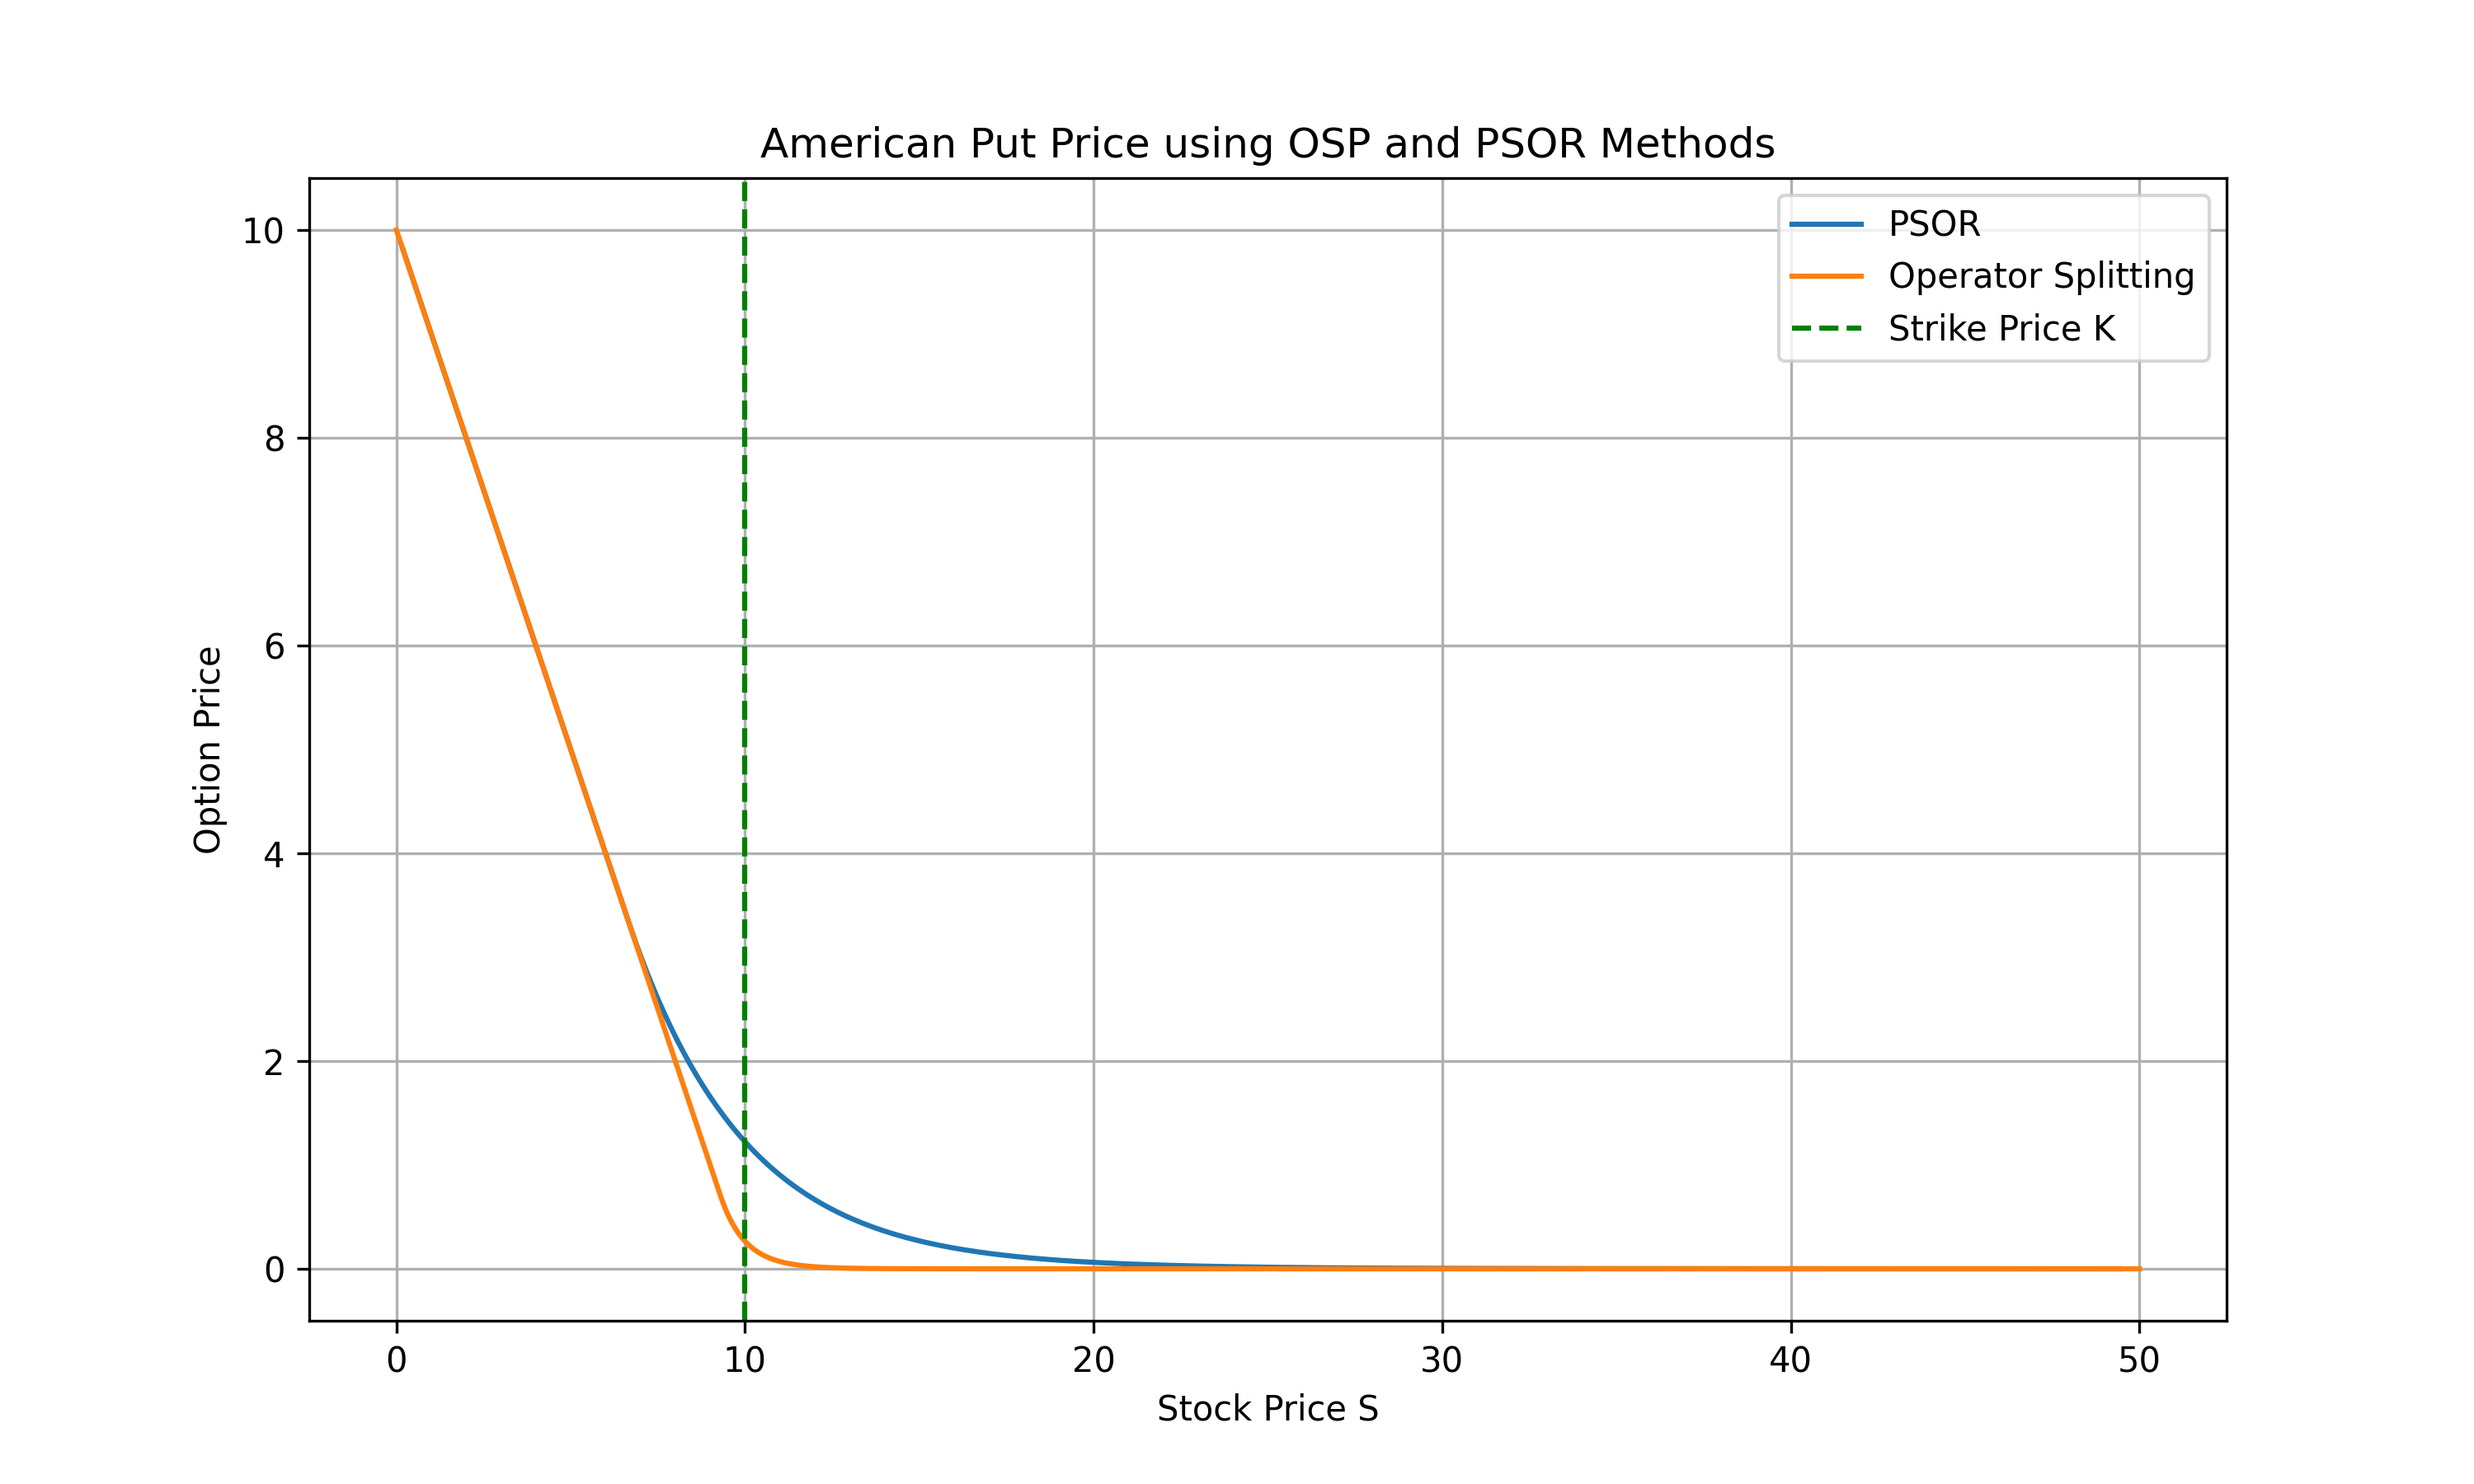
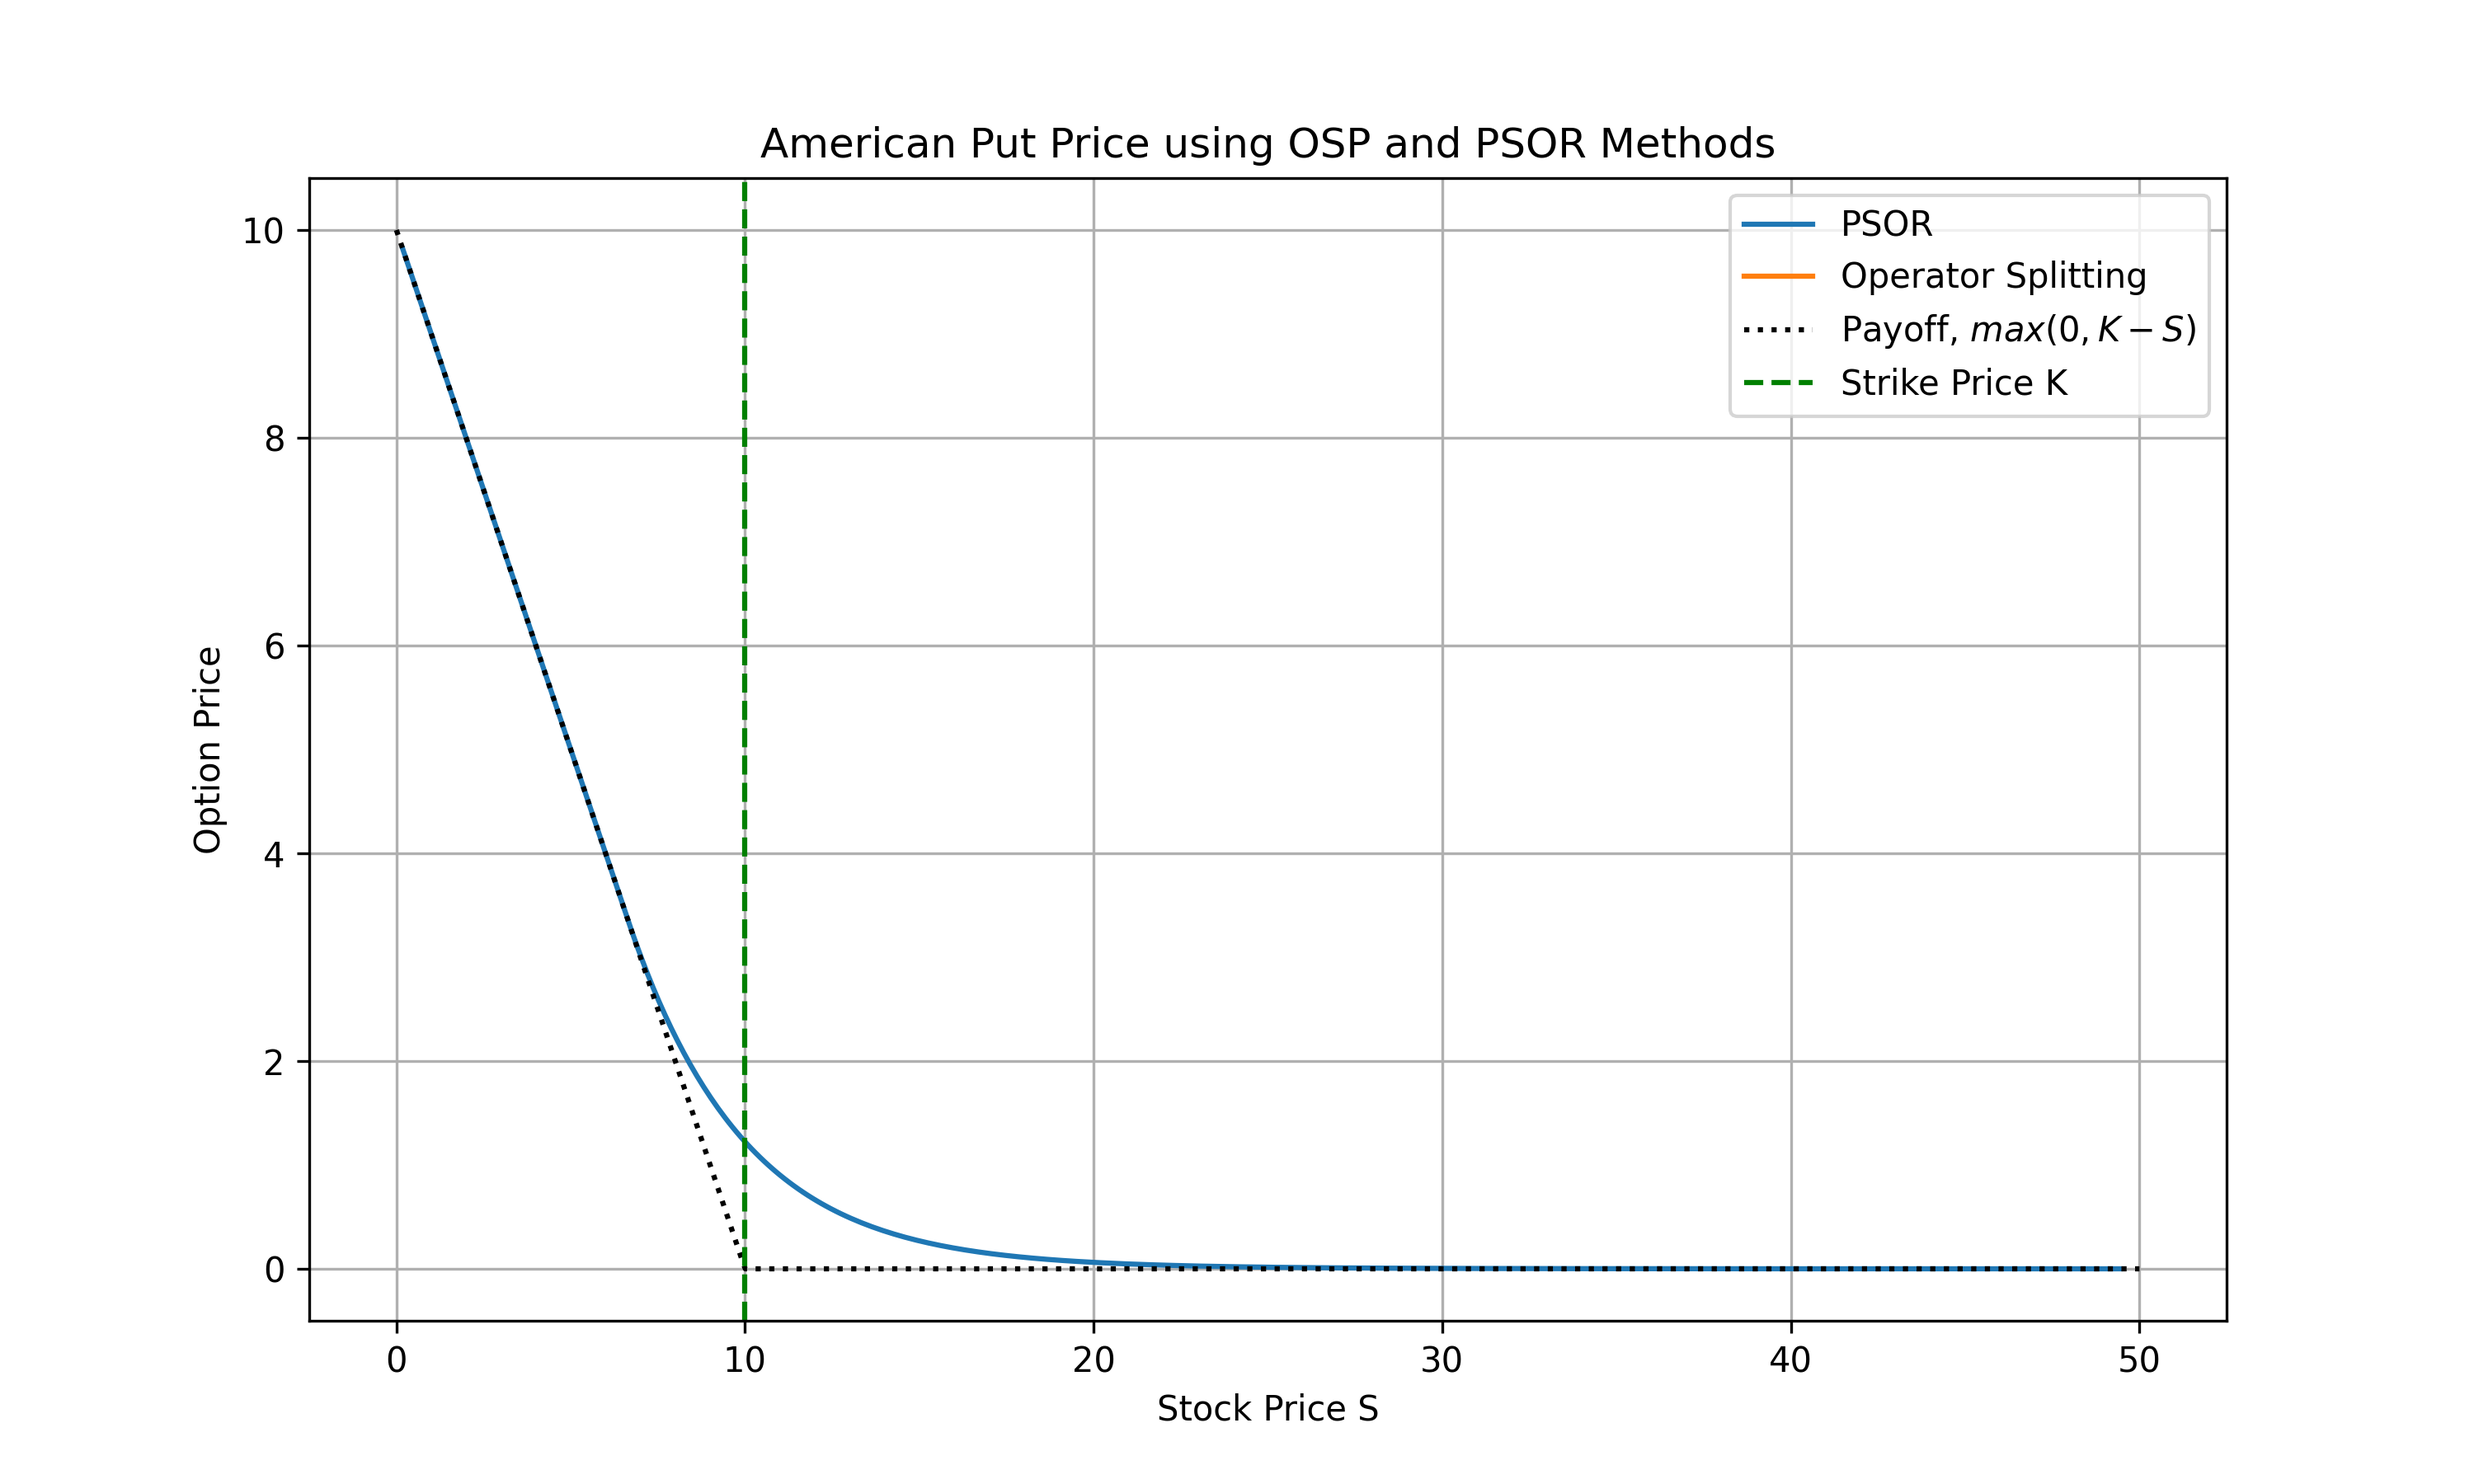
Fixed error with OS, added payoff func to plots, theta scheme to OS aswell

Changed region(s): [[0.682, 0.1244, 0.899, 0.28], [0.31, 0.84, 0.868, 0.8711], [0.279, 0.8089, 0.31, 0.84]]

diff --git a/Solver.py b/Solver.py
@@ -27,7 +27,7 @@ class AmericanOptionSolver:
         self.M = M         # Number of price steps
         self.N = N         # Number of time steps
         self.delta = delta # Dividend yield Only for PSOR method
-
+        self.theta = theta # Theta for Implicit-Explicit scheme
         self.call = call   # Call or put
         self.method = method
 
@@ -35,7 +35,7 @@ class AmericanOptionSolver:
             self.q_delta = 2*(r-delta)/sigma**2
             self.q = 2*r/sigma**2
             self.dtau = sigma**2 * T/N  
-            self.theta = theta # Theta for Implicit-Explicit scheme
+            
 
             # Initialization
             #self.sol_vec = np.zeros(M+1) # Solution vector
@@ -199,44 +199,42 @@ class AmericanOptionSolver:
         v : ndarray, shape (n,)
             Option values at t=0
         """
-        M, N = self.M, self.N
+        M, N, theta = self.M, self.N, self.theta
         v = self.v0.copy()
-        eta_v = np.zeros(M)  # Initialize auxiliary variable
+        eta_vp1 = np.zeros(M)  # Initialize auxiliary variable
         # Create a sparse identity matrix
         I_sparse = csc_matrix(np.eye(M))  # Create a sparse identity matrix
         
         # Backward in time
         for _ in tqdm(range(N), desc="Operator Splitting Time Steps", unit="step"):
             # Solve for intermediate solution
-            # Equation  (A - I/dt) v_tilde = eta - (I/dt + A) v 
+            # Equation (theta * A - I/dt) v_tilde = eta^{k+1} - (I/dt + (1- theta)* A) v 
             
             # Left-hand side matrix: (I/dt - A)
-            LHS = A - I_sparse / self.dt  
+            LHS = theta * A - I_sparse / self.dt  
             
-            # Right-hand side: eta - (I/dt + A) v^k 
+            # Right-hand side: eta^{k+1} - (I/dt + (1-theta)A) v^k 
             # Note: eta^{k+1} = eta^k for the first iteration
-            RHS = (eta_v - (I_sparse / self.dt + 0.5 * A) @ v)
+            RHS = (eta_vp1 - (I_sparse / self.dt + (1-theta) * A) @ v)
 
             LHS_csc = csc_matrix(LHS)
             lu = splu(LHS_csc)
             v_tilde = lu.solve(RHS)
-            eta_tilde = eta_v.copy()
+            eta_tilde = eta_vp1.copy()
             # Compute payoff
             payoff = self.payoff(self.S)
             
             # Projection step (equation 10)
             # This is solved component-wise
-            
             v_new = np.maximum(v_tilde, payoff) # Enforce constraint: v >= payoff
-            eta_new = eta_tilde + (v_tilde - v_new) / self.dt 
+            eta_v = eta_tilde - (v_tilde - v_new) / self.dt 
 
             # Ensure eta_new is non-negative
-            if np.any(eta_new < 0):
-                eta_new = np.maximum(eta_new, 0)
+            eta_v = np.maximum(eta_v, 0)
             
             # Update for next iteration
             v = v_new
-            eta_v = eta_new
+            eta_vp1 = eta_v
         
         return v
     
@@ -289,10 +287,15 @@ if __name__ == "__main__":
     if stopping_criteria is not None:
        plt.axvline(x=stopping_criteria, color='r', linestyle='--', label='Early Exercise Boundary for PSOR')
 
+    S_values = np.linspace(0, Smax, 1000)
     if call:
         plt.title('American Call Price using OSP and PSOR Methods')
+        payoff = np.maximum(S_values - K, 0)
+        plt.plot(S_values, payoff, label='Payoff, $max(0, S - K)$', linestyle=':', color='black')
     else:
         plt.title('American Put Price using OSP and PSOR Methods')
+        payoff = np.maximum(K - S_values, 0)
+        plt.plot(S_values, payoff, label='Payoff, $max(0, K - S)$', linestyle=':', color='black')
 
     plt.axvline(x=K, color='g', linestyle='--', label='Strike Price K')
     plt.legend()
